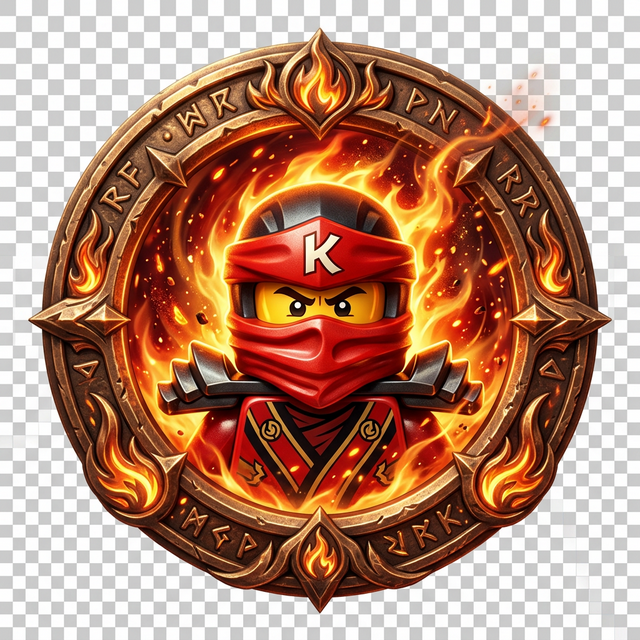
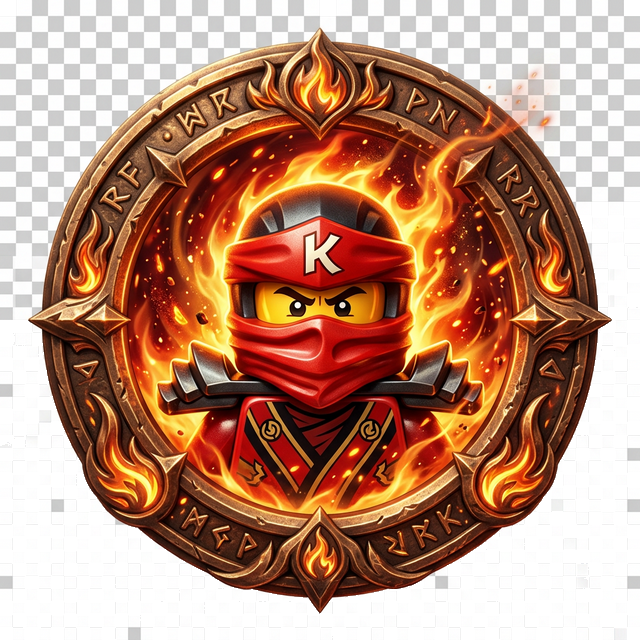
Fix: Physical background removal for all assets (v0.1.9.14)

Changed region(s): [[0.0, 0.3125, 1.0, 1.0], [0.5, 0.0, 0.5312, 0.0312], [0.0, 0.0, 0.0312, 0.0312]]

diff --git a/NinjagoGameApp.jsx b/NinjagoGameApp.jsx
@@ -6,17 +6,17 @@ import { Maximize, Minimize, Volume2, Play, RotateCcw, Settings, Home, Plus, Tra
 
 // === 資料與常數準備 ===
 const CHARACTERS = [
-    { id: 'lloyd', name: '勞埃德', url: '/assets/lloyd.jpg', colorClass: 'text-green-600', element: '❇ 能量', skin: 'lloyd' },
-    { id: 'jay', name: '阿光', url: '/assets/jay.jpg', colorClass: 'text-blue-600', element: '⚡ 閃電', skin: 'jay' },
-    { id: 'zane', name: '冰忍', url: '/assets/zane.jpg', colorClass: 'text-cyan-600', element: '❄ 冰雪', skin: 'zane' },
-    { id: 'kai', name: '赤地', url: '/assets/kai.jpg', colorClass: 'text-red-600', element: '🔥 火焰', skin: 'kai' },
-    { id: 'cole', name: '阿剛', url: '/assets/cole.jpg', colorClass: 'text-stone-800', element: '🪨 大地', skin: 'cole' },
-    { id: 'nya', name: '赤蘭', url: '/assets/nya.jpg', colorClass: 'text-sky-600', element: '💧 水', skin: 'nya' }
+    { id: 'lloyd', name: '勞埃德', url: '/assets/lloyd.png', colorClass: 'text-green-600', element: '❇ 能量', skin: 'lloyd' },
+    { id: 'jay', name: '阿光', url: '/assets/jay.png', colorClass: 'text-blue-600', element: '⚡ 閃電', skin: 'jay' },
+    { id: 'zane', name: '冰忍', url: '/assets/zane.png', colorClass: 'text-cyan-600', element: '❄ 冰雪', skin: 'zane' },
+    { id: 'kai', name: '赤地', url: '/assets/kai.png', colorClass: 'text-red-600', element: '🔥 火焰', skin: 'kai' },
+    { id: 'cole', name: '阿剛', url: '/assets/cole.png', colorClass: 'text-stone-800', element: '🪨 大地', skin: 'cole' },
+    { id: 'nya', name: '赤蘭', url: '/assets/nya.png', colorClass: 'text-sky-600', element: '💧 水', skin: 'nya' }
 ];
 
-const VILLAIN_LEVEL_1 = { id: 'garmadon', name: '劇毒大師', url: '/assets/garmadon.jpg', colorClass: 'text-purple-600' };
-const VILLAIN_LEVEL_2 = { id: 'overlord', name: '黑暗魔主', url: '/assets/overlord.jpg', colorClass: 'text-purple-900', isStrong: true };
-const VILLAIN_LEVEL_3 = { id: 'pythor', name: '派索長老', url: '/assets/pythor.jpg', colorClass: 'text-white', isStrong: true };
+const VILLAIN_LEVEL_1 = { id: 'garmadon', name: '劇毒大師', url: '/assets/garmadon.png', colorClass: 'text-purple-600' };
+const VILLAIN_LEVEL_2 = { id: 'overlord', name: '黑暗魔主', url: '/assets/overlord.png', colorClass: 'text-purple-900', isStrong: true };
+const VILLAIN_LEVEL_3 = { id: 'pythor', name: '派索長老', url: '/assets/pythor.png', colorClass: 'text-white', isStrong: true };
 
 const WORDS_LEVEL_1_2 = [
     '大人', '小人', '大哭', '大笑', '大口', '小口', '爸爸', '媽媽', '上天', '天上', '太大', '太小', '一天', '一月', '二天', '二月', '上上', '下下', '天地', '大地', '太陽', '月亮', '星星', '天亮', '大火', '大水', '火星', '水星', '三天', '三月', '下地', '地上', '地下', '土地', '大山', '小山', '土山', '石山', '火山', '土星', '木星', '好人', '田地', '水田', '我有', '我爸', '我媽', '我哭', '我笑', '好山', '好水'
